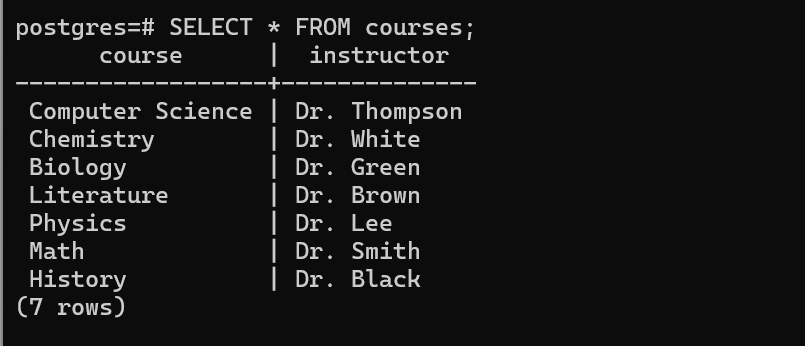
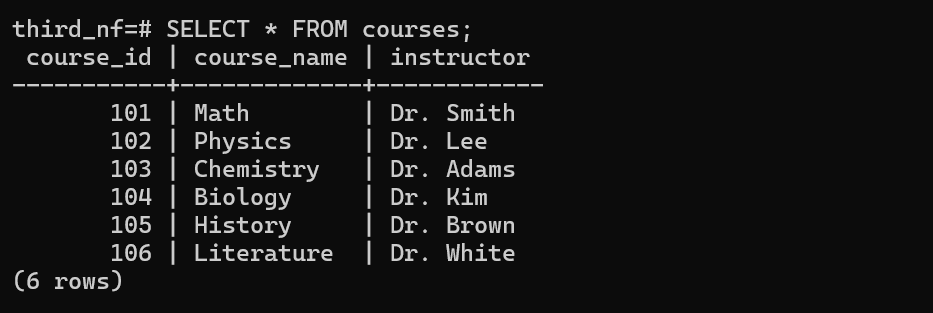
3nf complete

Changed region(s): [[0.0, 0.0, 0.5901, 1.0]]

diff --git a/src/normalization.md b/src/normalization.md
@@ -60,36 +60,49 @@ Step 2: Normalize to 2NF (Remove partial dependencies by separating the data int
 
 ### 3. Third Normal Form (3NF)
 
-- Must satisfy 2NF.
-- No transitive dependencies (non-key columns shouldn’t depend on other non-key columns).
+Step 1: Create the Unnormalized Table (UNF)
+We'll create a table university where some columns contain multiple values in a single row (violating 1NF).
 
-![university data unnormalized](./assets/university-3nf.png)
+![university table  unnormalized](./assets/unnorm%20-3nf.png)
 
-first normalization.
+Step 2: Normalize to First Normal Form (1NF)
+Rule: Each column must contain atomic values (no multiple values in one cell).
 
-![university data 1NF normalized](./assets/univ-1nf.png)
+![university table 1NF normalized](./assets/univ-1nf(3NF).png)
 
-second normalization -  we create the students table (stores student information). courses table (stores course and instructor information) and student_courses table (tracks which student is enrolled in which course, and their grade):
+Step 3: Normalize to Second Normal Form (2NF)
+Rule: Remove partial dependencies (columns should depend on the full primary key).
 
-- student- table: stores student information
+- Create a students table to store student details separately.
 
-![student 2NF normalized](./assets/students-3nf.png)
+![university table 1NF normalized](./assets/student-3nf.png)
 
-- courses -table: stores course and instructor information
+- Create a courses table to store course and instructor details separately.
 
-![courses 2NF normalized](./assets/courses-3nf.png)
+![university table 1NF normalized](./assets/courses-3nf.png)
 
-- student_courses table: tracks which student is enrolled in which course, and their grade
+- Create a student_courses table to represent the many-to-many relationship.
 
-![student-courses 2NF normalized](./assets/student-course-3nf.png)
+![university table 1NF normalized](./assets/student_courses-3nf.png)
 
-third normalizations - To move to 3NF, we need to remove transitive dependencies. In this case, the department column should not be in the students table because it is dependent on the student_id, and we don't want to store it redundantly.  
-Create the departments table (stores department information)
+Step 4: Normalize to Third Normal Form (3NF)
+Rule: Remove transitive dependencies (a non-key column should not depend on another non-key column).
 
-![departments normalized](./assets/depatments.png)
-and Modify the students table (remove department column from students and link it to departments)
+- Create a departments table to store department details separately.
 
-## When to Stop Normalizing?
+![university table 1NF normalized](./assets/departments(3nf).png)
 
-- Over-normalization can make queries slower (due to joins).  
-- Balance between redundancy and performance.
+- Update students Table to Include department_id
+Since we removed the department column and replaced it with department_id, we insert the updated records.
+
+Final Database Schema (3NF)  
+Now, the database follows 3NF and is properly structured:  
+
+    students (student_id, student_name, department_id)
+    departments (department_id, department_name)
+    courses (course_id, course_name, instructor)
+    student_courses (student_id, course_id, grade)
+
+This structure eliminates redundancy, prevents anomalies, and improves data integrity.
+
+>The same procedure is followed for 4nf, 5nf etc ..
